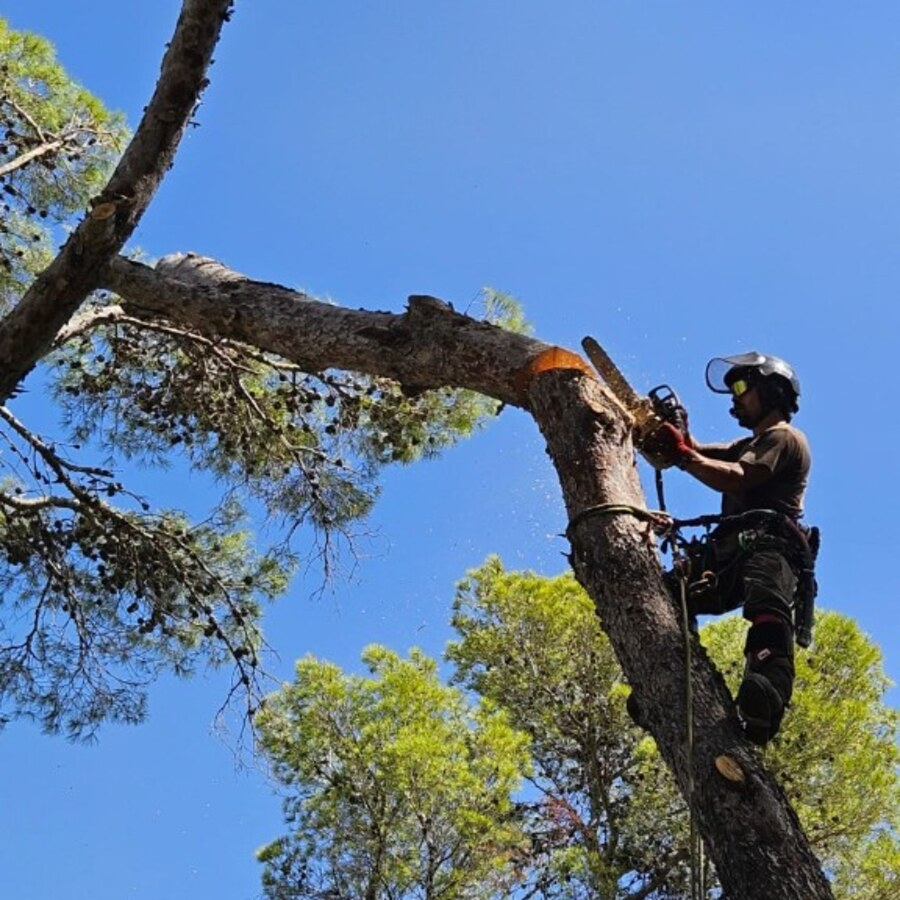
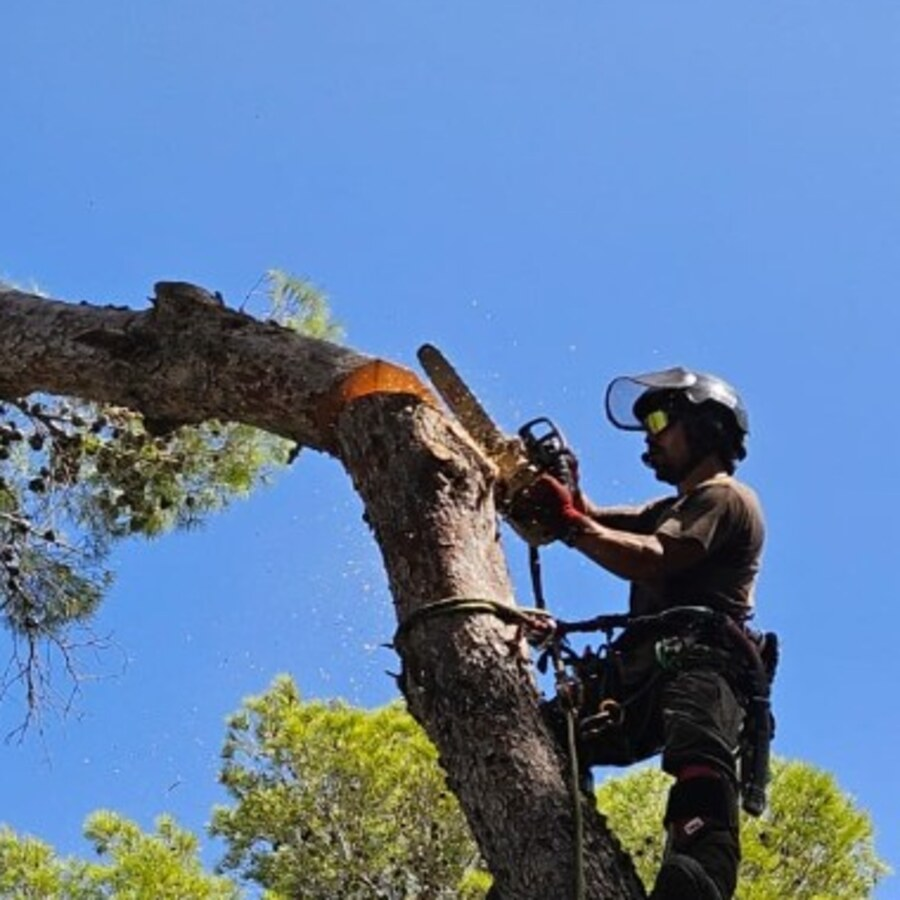
push

diff --git a/index.html b/index.html
@@ -50,7 +50,7 @@
       href="https://fonts.googleapis.com/css2?family=Public+Sans:wght@400;600;700&family=Work+Sans:wght@600;700;800&display=swap"
       rel="stylesheet"
     />
-    <link rel="stylesheet" href="css/styles.css?v=122" />
+    <link rel="stylesheet" href="css/styles.css?v=123" />
     <script type="application/ld+json">
       {
         "@context": "https://schema.org",
@@ -436,7 +436,7 @@
               <div class="team-member__photo">
                 <img
                   class="team-member__img--frank"
-                  src="assets/about/team-frank.jpg?v=1"
+                  src="assets/about/team-frank.jpg?v=3"
                   alt="Frank Pineiro"
                   width="900"
                   height="900"

diff --git a/contact.html b/contact.html
@@ -46,7 +46,7 @@
       href="https://fonts.googleapis.com/css2?family=Public+Sans:wght@400;600;700&family=Work+Sans:wght@600;700;800&display=swap"
       rel="stylesheet"
     />
-    <link rel="stylesheet" href="css/styles.css?v=122" />
+    <link rel="stylesheet" href="css/styles.css?v=123" />
     <script type="application/ld+json">
       {
         "@context": "https://schema.org",

diff --git a/css/styles.css b/css/styles.css
@@ -885,8 +885,8 @@ button {
 }
 
 .team-member__img--frank {
-  /* Keep Frank fully inside the circular crop */
-  object-position: 68% 48%;
+  /* Center Frank in the circular crop */
+  object-position: center center;
 }
 
 .team-member__content {
